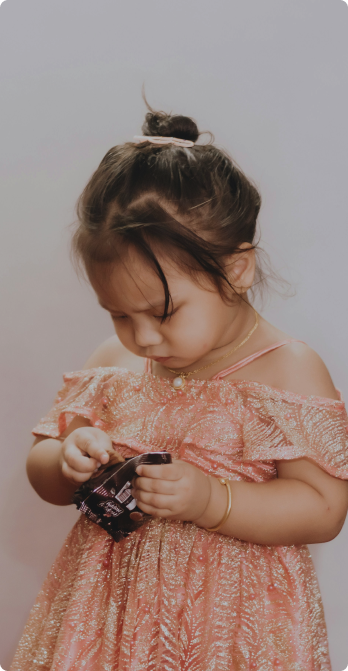
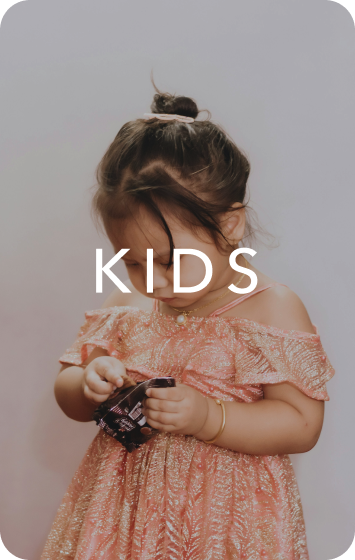
home page complete !

diff --git a/clothify/src/pages/Home.jsx b/clothify/src/pages/Home.jsx
@@ -1,67 +1,123 @@
+import { motion } from 'framer-motion';
+import React from "react";
+import autumn_m from '../assets/autumn-mobile.png';
+import autumn from '../assets/autumn.png';
+import bento2 from '../assets/bento2.png';
+import bento3 from '../assets/bento3.png';
+import bento4 from '../assets/bento4.png';
+import bento5 from '../assets/bento5.png';
+import men_mobile from '../assets/c1.png';
+import women_mobile from '../assets/c2.png';
+import teens_mobile from '../assets/c3.png';
+import kids_mobile from '../assets/c4.png';
+import category from '../assets/category.png';
+import collection from '../assets/collection.png';
+import start from '../assets/homeStart.png';
+import kids from '../assets/kids.png';
+import bento_m1 from '../assets/m1.png';
+import bento_m2 from '../assets/m2.png';
+import bento_m3 from '../assets/m3.png';
+import bento_m4 from '../assets/m4.png';
+import bento_m5 from '../assets/m5.png';
+import men from '../assets/mens.png';
+import season from '../assets/seasonal.png';
+import spring_m from '../assets/spring-m.png';
+import spring from '../assets/spring.png';
+import summer_m from '../assets/summer-m.png';
+import summer from '../assets/summer.png';
+import bento1 from '../assets/T-shirtBento.png';
+import teen from '../assets/teens.png';
+import visit from '../assets/visit.png';
+import winter_m from '../assets/winter-m.png';
+import winter from '../assets/winter.png';
+import women from '../assets/women.png';
+import Cart from "./components/Cart";
+import Footer from "./components/Footer";
+import Header from "./components/Header";
 
-import Header from './components/Header'
-import Carousel from './components/Carousel'
-import Formal from '../assets/formal.png'
-import Footer from './components/Footer'
-import Mens from '../assets/mens.png'
-import Womens from "../assets/womens.png"
-import Teens from "../assets/teens.png"
-import Kids from "../assets/kids.png"
-import { Link } from 'react-router-dom'
-import Store from '../assets/store.png'
+export default function Home() {
 
+    const [rotate, setRotate] = React.useState(false);
+    const [isOpen, setIsOpen] = React.useState(false);
 
-const Home = () => {
-    const slides = [Formal, Formal]
+    function handleClick(){
+        setIsOpen(prevState=>!prevState)
+        console.log(isOpen);
+
+    }
+
     return (
-        <div className="h-max bg-[#fbfcf0] dark:bg-black font-mulish">
-            <Header />
-            <div className='flex justify-center items-center mt-0 flex-col'>
-                <div className='w-[98%] justify-center flex '>
-                    <Carousel autoSlide={true}>
-                        {slides.map(img => (<img src={img} key={slides} className='object-cover' />))}
-                    </Carousel>
-                </div>
-                <h1 className='mt-16 text-5xl tracking-[6px] ml-4'>NEW COLLECTION</h1>
-                <p className='text-[#8C8C8C] mt-16 tracking-[5px] flex flex-col justify-center items-center leading-9 text-sm'>Our latest collection,where classic and contemparary style converge in<span> perfect harmony</span></p>
-                <div>
-
-                </div>
-                <div className='w-[80%] flex gap-0 justify-center items-center mt-10 ml-10 p-0 mb-40'>
-                    <Link to="/men">
-                        <div className='relative flex flex-col justify-center items-center'>
-                            <img src={Mens} className='w-[80%]'></img>
-                            <p className='absolute text-3xl tracking-widest text-white'>MEN</p>
-                        </div>
-                    </Link>
-                    <Link to='/women'>
-                        <div className='relative flex flex-col justify-center items-center'>
-                            <img src={Womens} className='w-[80%]'></img>
-                            <p className='absolute text-3xl tracking-widest text-white'>WOMEN</p>
-                        </div>
-                    </Link>
-                    <Link to='/teen'>
-                        <div className='relative flex flex-col justify-center items-center'><img src={Teens} className='w-[80%]'></img>
-                            <p className='absolute text-3xl tracking-widest text-white'>TEEN</p>
-                        </div>
-                    </Link>
-                    <Link to='/kids'>
-                        <div className='relative flex flex-col justify-center items-center'><img src={Kids} className='w-[80%]'></img>
-                            <p className='absolute text-3xl tracking-widest text-white'>KIDS</p>
-                        </div>
-                    </Link>
-                </div>
-                <div className='flex flex-col items-center gap-2'>
-                    <h1 className='mt-16 text-5xl tracking-[7px] ml-4'>COME HERE !</h1>
-                    <h3 className='mt-7 text-2xl tracking-wider font-thin'>Our Experience Store</h3>
-                    <img src={Store} className='w-[60%] mt-20 rounded-md' alt='store front'/>
-                    <p className='mt-7 text-3xl tracking-wider font-medium'>No 123, bauddhaloka mawatha colombo 4</p>
-                    <p className='font-thin text-2xl tracking-wide mt-5 pb-24'>Open from 10AM to 8PM</p>
-                </div>
-                <Footer />
+        <div className='flex flex-col'>
+            <div>
+                <Header action={handleClick}/>
             </div>
+            <motion.main animate={{ scale: 1 }} transition={{ type: "spring", duration: 2 }} initial={{ scale: 0 }} className={`ssm:w-[80%] ssm:ml-[9%] ssm:mt-[6%] sm:w-[85%] sm:ml-[5%] sm:mt-[5%] md:w-[85%] md:ml-[6%] md:mt-[3%] lg:w-[90%] lg:ml-[5%] lg:mt-[3%] xl:w-[80%] xl:mt-[3%] xl:ml-[10%] 2xl:p-20  flex flex-col items-center justify-center  2xl:w-[90%] 2xl:ml-[4%] ${isOpen==true?` overflow-hidden`:` overflow-scroll`} `}>
+
+                <div className="flex  justify-end ">
+                    <motion.div animate={{ rotate: rotate ? 360 : 0 }} transition={{ duration: 1 }} onClick={() => { setRotate(!rotate); }} className=" pl-12   ml-[1%] mr-[0%] pb-8  ssm:w-[118%] ssm:ml-[-12%]">
+                        <img src={start} alt="" className="" />
+                    </motion.div>
+                    <div   className={`mt-[-4%] absolute mr-[-9%] ${isOpen==true?`fixed`:`hidden`}`}>
+                        <Cart />
+                    </div>
+                </div>
+
+                <div className="   ">
+                    <img className="" src={collection} alt="" />
+                </div>
+                <div className="g grid grid-cols-2 gap-1   ml-[5%]   mt-2 p-5  ssm:hidden">
+                    <motion.img whileHover={{ scale: 1.15 }} whileInView={{ x: 0 }} initial={{ x: -20 }} className="w-[95%]" src={bento1} alt="" />
+                    <motion.img whileHover={{ scale: 1.15 }} whileInView={{ x: 0 }} initial={{ x: 20 }} className=" w-[100%] mr-2 pr-6" src={bento2} alt="" />
+                    <motion.img whileHover={{ scale: 1.15 }} whileInView={{ x: 0 }} initial={{ x: -20 }} className="w-[95%] pt-0 mt-[-80%] md:mt-[-75%] sm:mt-[-74%] " src={bento3} alt="" />
+                    <motion.img whileHover={{ scale: 1.15 }} whileInView={{ x: 0 }} initial={{ x: 20 }} className="pt-5 w-[97%] lg:w-[95%] md:w-[94.5%] md:h-[99%] sm:w-[93%] sm:h-[99%]  " src={bento4} alt="" />
+                </div>
+
+                <div className="2xl:hidden xl:hidden lg:hidden md:hidden sm:hidden ssm:mt-5 flex flex-col justify-center items-center ssm:w-[100%] ssm:mr-[4%] pl-6 ">
+                    <img className="" src={bento_m1} alt="" />
+                    <img className="ssm:mt-[-12%]" src={bento_m2} alt="" />
+                    <img className="ssm:mt-[-12%]" src={bento_m3} alt="" />
+                    <img className="ssm:mt-[-12%]" src={bento_m4} alt="" />
+                    <img className="ssm:mt-[-12%]" src={bento_m5} alt="" />
+                </div>
+
+                <div className=" pl-[3%]  pr-3 flex ml-[3%] ssm:hidden">
+                    <motion.img whileHover={{ scale: 1.15 }} whileInView={{ x: 0 }} initial={{ x: -20 }} className="r rounded-lg w-[98%]" src={bento5} alt="" />
+                </div>
+                <div className="    mt-[10%]   ">
+                    <img className="ml-0 p-0  mr-[-2%]" src={category} alt="" />
+                </div>
+                <motion.div transition={{ duration: 2 }} whileInView={{ rotate: [0, 180, 180, 0] }} className="flex mt-7 ml-[2%] mr-[1%] w-[100%]  justify-center gap-5 ssm:hidden">
+                    <img className="size-[20%] " src={men} alt="" />
+                    <img className="size-[20%] object-cover" src={women} alt="" />
+                    <img className="size-[20%]" src={teen} alt="" />
+                    <img className="size-[20%]" src={kids} alt="" />
+                </motion.div>
+                <div className="mt-5 flex flex-col items-center ml-3 2xl:hidden xl:hidden lg:hidden md:hidden sm:hidden">
+                    <img src={men_mobile} alt="" />
+                    <img src={women_mobile} alt="" />
+                    <img src={teens_mobile} alt="" />
+                    <img src={kids_mobile} alt="" />
+                </div>
+                <div className="   mt-[10%]   ">
+                    <img className="ml-0 p-0  mr-[-2%]" src={season} alt="" />
+                </div>
+                <div className="grid grid-cols-2 pt-5 pl-8 gap-3 mr-2 ml-2 ssm:hidden">
+                    <img src={summer} alt="" />
+                    <img className="xl:w-[93%] lg:w-[92%] md:w-[85%] sm:w-[83%]" src={winter} alt="" />
+                    <img className="mt-[-14%] xl:mt-[-6%] 2xl:mt- 2xl:h-[85%] xl:h-[82.3%] lg:h-[81%] lg:mt-[-6%] md:h-[72%] md:mt-[-2%] sm:h-[80%] sm:mt-[0] " src={autumn} alt="" />
+                    <img className=" pr-12 sm:mt-[-4%] sm:h-[83%] " src={spring} alt="" />
+                </div>
+                <div className=" 2xl:hidden xl:hidden lg:hidden md:hidden sm:hidden flex flex-col items-center mt-5 pl-5 pr-3">
+                    <img className="pl-1" src={summer_m} alt="" />
+                    <img className="pl-1" src={winter_m} alt="" />
+                    <img className="ml-1" src={autumn_m} alt="" />
+                    <img className="pl-1" src={spring_m} alt="" />
+                </div>
+                <div className=" mt-10">
+                    <img src={visit} alt="" />
+                </div>
+            </motion.main>
+            <Footer />
         </div>
     )
 }
-
-export default Home
